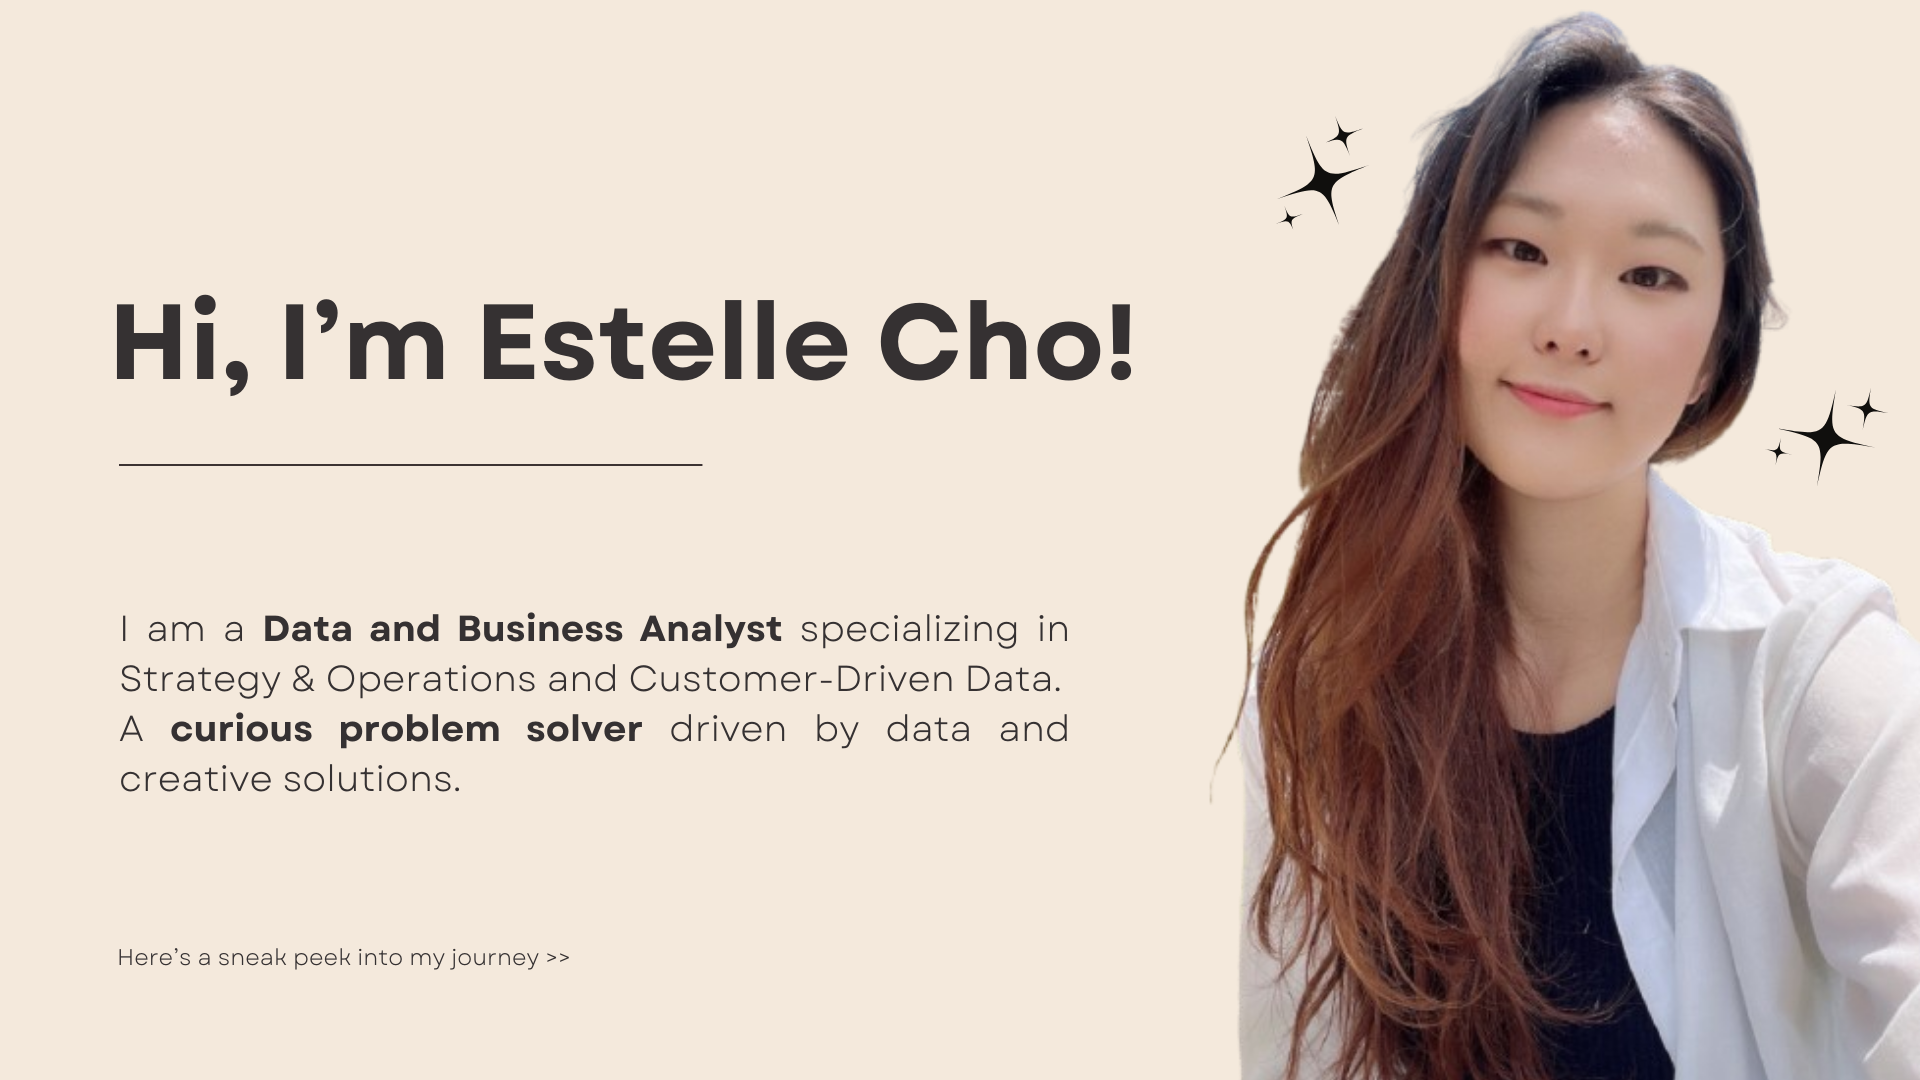
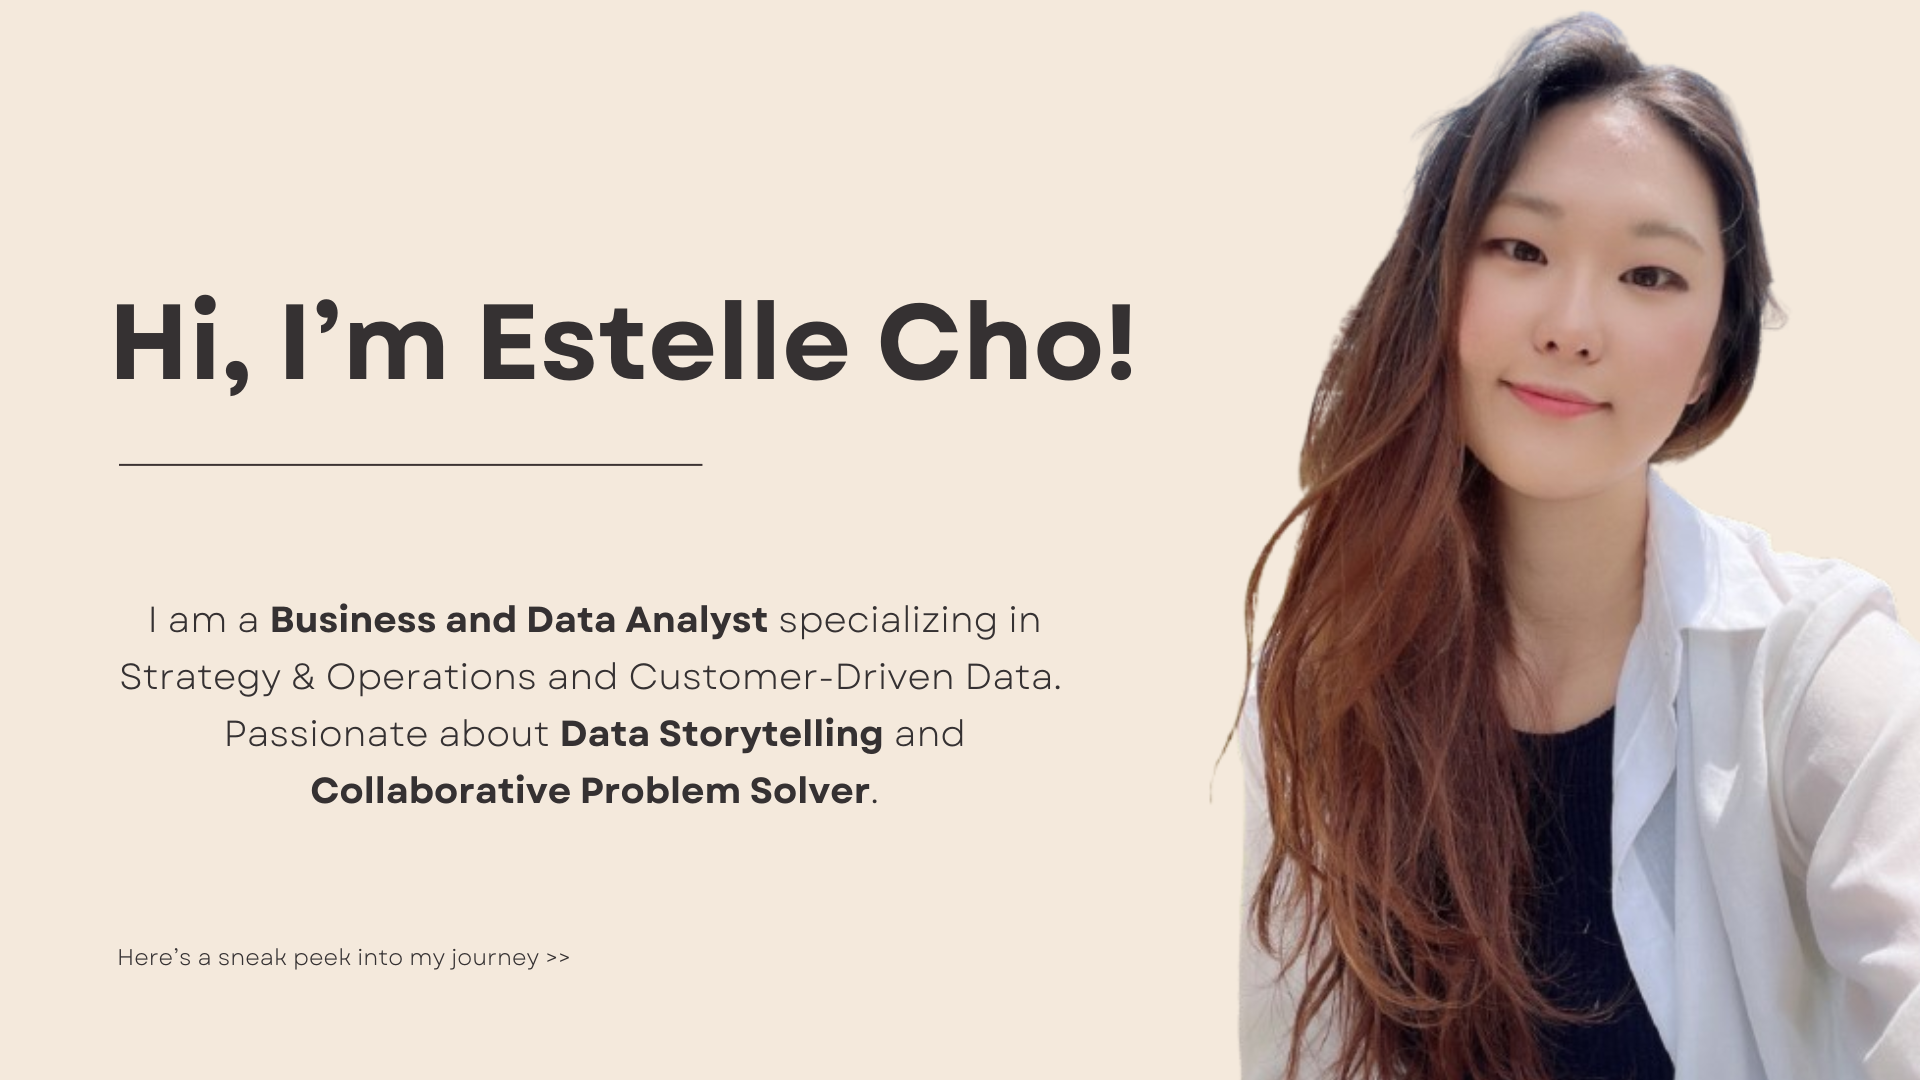
v

Changed region(s): [[0.0625, 0.55, 0.5625, 0.7639], [0.6562, 0.1528, 0.7188, 0.1833], [0.9375, 0.3972, 0.9688, 0.4278]]

diff --git a/index.html b/index.html
@@ -318,28 +318,31 @@ $(document).ready(function () {
 <!-- </style> -->
 <!-- <br> -->
 <p align="center">
-<img src="images/main%20page%20pic%202.png" style="width:100%; border:0px solid; margin-right: 20px" align="center">
+<img src="images/main page pic 2.png" style="width:100%; border:0px solid; margin-right: 20px" align="center">
 </p>
 <p><br> 🌟 <strong>My journey has been unique</strong>—from English and
 Cultural Content major, working in Music Entertainment and Business
 Consulting, to diving into Data Analytics. Looking back, my passion has
-always been <strong>solving business challenges, analyzing data, and
-turning insights into visuals and reports that help others understand
-the story behind the numbers</strong>.</p>
-<p>📊 As a <strong>Data and Business Analyst</strong>, I analyzed
-company and product data, managed dashboards, identified key trends, and
-developed data-driven strategies. 💼 As a <strong>Data Analytics
-Consultant</strong>, I interpreted complex datasets, built forecasting
-and predictive models, and developed revenue projections for business
-valuations and operational improvements.</p>
-<p>🔥 At the heart of what I do is a <strong>genuine curiosity—I’m
-always asking “Why?”</strong> This curiosity drives me to understand
-problems deeply, explore different perspectives, and come up with
-practical, creative solutions.</p>
-<p>👯 I genuinely <strong>enjoy working with people from all walks of
-life—it’s how I learn, grow, and do my best work</strong>. Some of the
-most rewarding moments have come from teaming up with talented people to
-drive the best outcomes and create something great.</p>
+always been <strong>solving business challenges, analyzing complex data,
+and turning insights into visuals and reports that help others
+understand the story behind the numbers</strong>.</p>
+<p>🎓 M.S. in <strong>Business Analytics (STEM)</strong> at the
+University of Southern California, Marshall School of Business</p>
+<p>📊 Skills: Strategic Planning &amp; Execution, Structured Problem
+Solving, Data Analysis, Data Modeling, Predictive Modeling, Forecasting,
+Statistical Analysis, Machine Learning, Market Research, Competitive
+Analysis, Insight Communication, Data Storytelling, Cross-Functional
+Collaboration, Stakeholder Engagement 💼Tools: SQL, Python, Excel,
+Google Sheets, Tabelau, Power BI, Looker, Google Analytics, PowerPoint,
+Google Slides</p>
+<p>🔥 At the heart of what I do is a genuine curiosity—I’m always asking
+“Why?” This curiosity drives me to understand problems deeply, explore
+different perspectives, and come up with practical, creative
+solutions.</p>
+<p>👯 I genuinely enjoy working with people from all walks of life—it’s
+how I learn, grow, and do my best work. Some of the most rewarding
+moments have come from teaming up with talented people to drive the best
+outcomes.</p>
 <p>🧘 Outside of work, I enjoy exploring nature, playing tennis,
 practicing hot yoga, cooking, making music, and offering life advice to
 friends and colleagues!</p>
